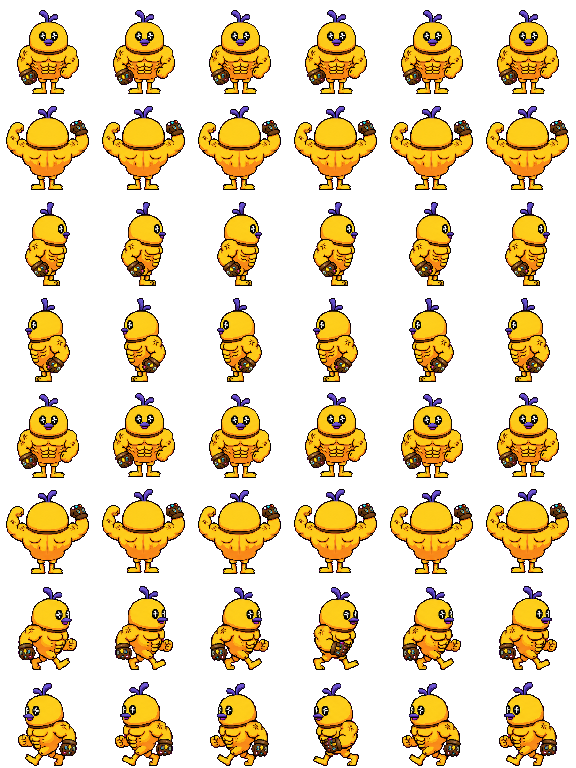
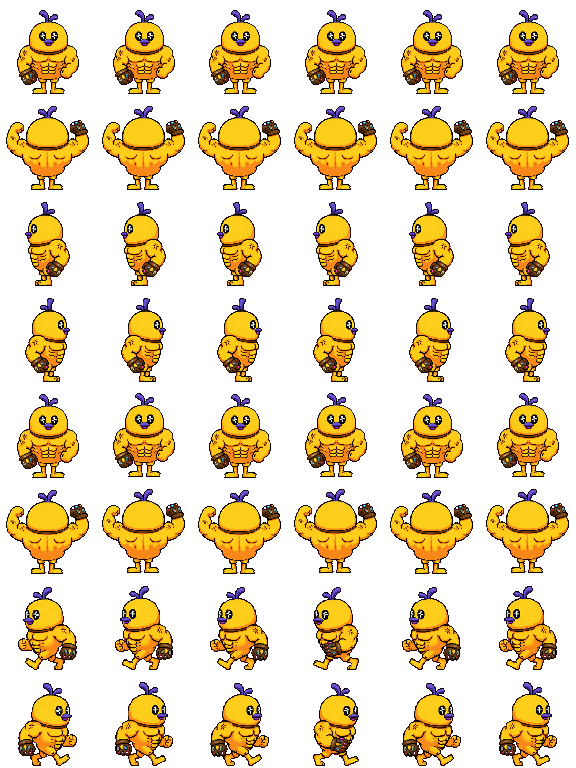
fix(temple-play): correct sprite facing, sizes, and plaza interactions
- swap left/right rows for 13 characters whose sheets face the opposite
  direction (Wisnu, Eric Argent, Rollins, K.Gufran, Vibevortex, AQC, DP,
  Richard12, Suleyman, Jepanya, Ishu, Sza, Luzzy) via layout-level swap
- Spider (Eric Argent's cat) rendered smaller via per-character target_h
- Jepanya walk uses the running row so legs/pants stay visible
- Ishu listed under Rialo Team & Helper in character select
- KingJ moved out from behind the lamp post and now strolls
- NXR gate guide moved west of the sign plaza; RialoSign info takes
  priority over gathered NPCs when standing or tapping at the sign

diff --git a/src/pages/TemplePlay.tsx b/src/pages/TemplePlay.tsx
@@ -328,6 +328,7 @@ const RIALO_TEAM_HELPER_KEYS = new Set<SpriteKey>([
   'npcEcelannister',
   'npcCaptain',
   'npcFlippedFace',
+  'npcIshu',
   'npcJeams',
   'npcKGufran',
   'npcKeep',
@@ -421,8 +422,8 @@ const QUESTS: QuestNpc[] = [
     npc: 'NXR',
     role: 'Builder Guide',
     sprite: 'nxr',
-    x: 928,
-    y: 880,
+    x: 745,
+    y: 935,
     color: '#f2c866',
     accent: '#57e39f',
     reward: 50,
@@ -873,8 +874,8 @@ const AMBIENT_NPCS: AmbientNpc[] = [
   {
     name: 'KingJ',
     sprite: 'npcKingJ',
-    x: 420,
-    y: 900,
+    x: 560,
+    y: 1010,
     color: '#f2c866',
     accent: '#57e39f',
     line: 'A good vault turns ownership into something apps can use.',
@@ -884,8 +885,8 @@ const AMBIENT_NPCS: AmbientNpc[] = [
       'Useful real-world assets should update with status, verification, and live conditions.',
       'Then agents can reason about them instead of staring at a static badge.',
     ],
-    activity: 'meditate',
-    persona: 'homebody',
+    activity: 'stroll',
+    persona: 'wanderer',
   },
   {
     name: 'Richard12',
@@ -1858,13 +1859,16 @@ function TemplePlayCanvas({
         nearId.current = nearest?.id ?? null
         onNearQuestChange(nearId.current)
       }
-      const ambient = nearId.current ? null : nearestAmbientNpc(current)
+      // Standing right at the sign always offers the sign, even when ambient
+      // NPCs gather on the plaza around it.
+      const signPriority = Math.hypot(current.x - RIALO_SIGN_INTERACT.x, current.y - RIALO_SIGN_INTERACT.y) < 80
+      const ambient = nearId.current || signPriority ? null : nearestAmbientNpc(current)
       const ambientIndex = ambient?.index ?? null
       if (ambientIndex !== nearAmbient.current) {
         nearAmbient.current = ambientIndex
         onNearAmbientChange(nearAmbient.current)
       }
-      const signClose = !nearId.current && !nearAmbient.current && nearestRialoSign(current)
+      const signClose = !nearId.current && (signPriority || (nearAmbient.current === null && nearestRialoSign(current)))
       if (signClose !== nearSignRef.current) {
         nearSignRef.current = signClose
         onNearSignChange(signClose)
@@ -1911,8 +1915,10 @@ function TemplePlayCanvas({
             y: clamp((event.clientY - rect.top) / camera.zoom + camera.y, 90, WORLD.height - 90),
           }
           const tappedQuest = QUESTS.find((quest) => Math.hypot(target.x - quest.x, target.y - quest.y) < 70)
-          const tappedAmbient = tappedQuest ? null : tappedAmbientNpc(target)
-          const tappedSign = !tappedQuest && !tappedAmbient && Math.hypot(target.x - RIALO_SIGN_INTERACT.x, target.y - RIALO_SIGN_INTERACT.y) < 140
+          // A tap right on the sign beats NPCs loitering on the plaza.
+          const signTapDistance = Math.hypot(target.x - RIALO_SIGN_INTERACT.x, target.y - RIALO_SIGN_INTERACT.y)
+          const tappedAmbient = tappedQuest || signTapDistance < 70 ? null : tappedAmbientNpc(target)
+          const tappedSign = !tappedQuest && !tappedAmbient && signTapDistance < 140
           const targetActor = tappedQuest ?? tappedAmbient ?? (tappedSign ? RIALO_SIGN_INTERACT : null)
           const walkTarget = targetActor
             ? approachPoint(player.current, targetActor, 76)

diff --git a/scripts/repack_characters.py b/scripts/repack_characters.py
@@ -340,15 +340,29 @@ def build_character(name: str, rgba: np.ndarray, layout: dict, debug_dir: Path |
     if pending:
         raise ValueError(f"{name}: unresolved rows {sorted(pending)}")
 
+    # Some sheets draw their "side" rows facing the opposite direction from
+    # what the art suggests at a glance; a layout-level swap flips the pairs.
+    if layout.get("swap"):
+        for a, b in (("idle_left", "idle_right"), ("walk_left", "walk_right")):
+            gathered[a], gathered[b] = gathered[b], gathered[a]
+            a_bob, b_bob = a in bob_rows, b in bob_rows
+            bob_rows.discard(a)
+            bob_rows.discard(b)
+            if a_bob:
+                bob_rows.add(b)
+            if b_bob:
+                bob_rows.add(a)
+
     # Scale: normalize every row so the character height is uniform across
     # rows (the AI draws some directions/animations at wildly different
     # sizes). Row-max height keeps the intra-row walk bob intact.
+    target_h = layout.get("target_h", TARGET_CHAR_H)
     sheet = Image.new("RGBA", (COLS * CELL, len(ROW_ORDER) * CELL), (0, 0, 0, 0))
     for ri, key in enumerate(ROW_ORDER):
         frames = gathered[key]
         row_h = max(f.height for f in frames)
         row_w = max(f.width for f in frames)
-        scale = min(TARGET_CHAR_H / row_h, (CELL - 4) / row_w)
+        scale = min(target_h / row_h, (CELL - 4) / row_w)
         order = pingpong(list(range(len(frames))), COLS)
         for ci in range(COLS):
             bob = -1 if (key in bob_rows and ci % 2 == 1) else 0
